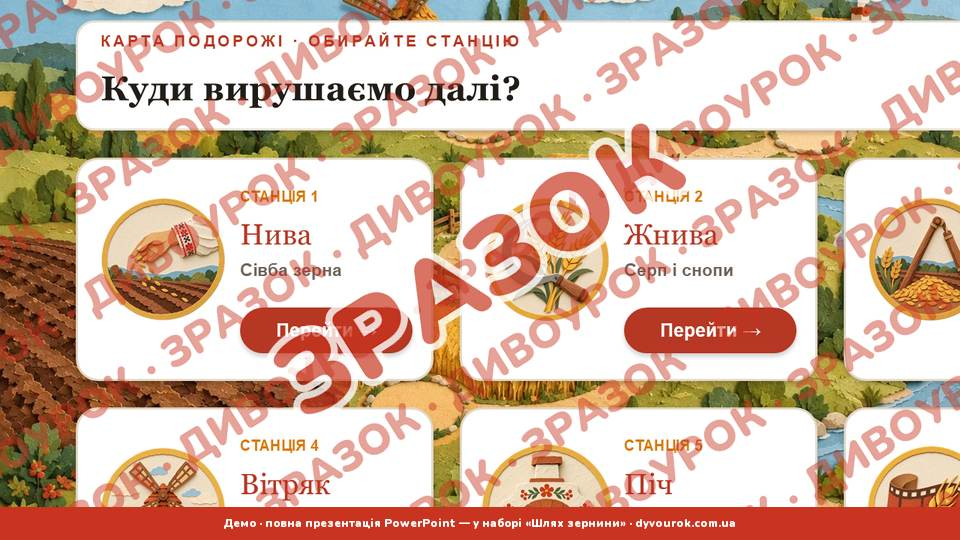
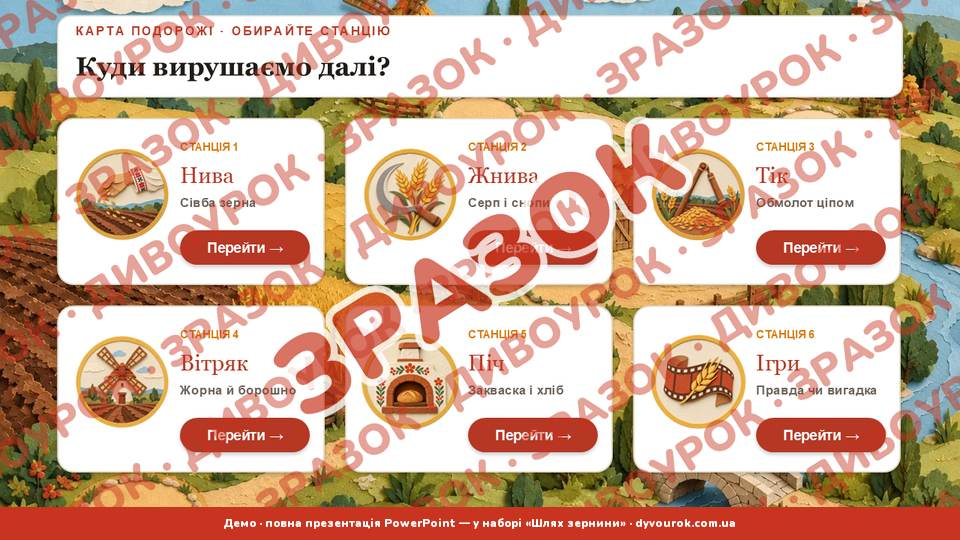
fix(khlib/pptx): set presentation layout to LAYOUT_WIDE so elements match widescreen slide canvas

diff --git a/public/packs/khlib/pack.js b/public/packs/khlib/pack.js
@@ -14,7 +14,7 @@
   date: '16 жовтня',
   base: 'packs/khlib/',
   cover: 'img/cover-card.jpg',
-  versions: {"media/c1.jpg": "f8fc8da178", "media/c1.mp4": "abd4440046", "media/c1.vtt": "d55c3039c4", "media/c2.jpg": "02c8a68ddb", "media/c2.mp4": "df881417da", "media/c2.vtt": "99db5f16aa", "media/c3.jpg": "dd7f03119e", "media/c3.mp4": "af7a4a8631", "media/c3.vtt": "2bdef21d86", "media/m3.jpg": "d4b6daff6a", "media/m3.mp4": "9398d8b778", "media/m3.vtt": "41a78e4a5a", "docs/banery.pdf": "da53f1a016", "docs/hramota.pdf": "ad4d55fa22", "docs/nalipky-zakladky.pdf": "5e8e645f74", "docs/plan.pdf": "4ec6273cd4", "docs/rozdatka-1-4.pdf": "7d9dffcae3", "docs/rozdatka-5-7.pdf": "6c6f7d1fe0", "docs/rozdatka-8-11.pdf": "388fbd0851", "img/cover-card.jpg": "7867b4e395", "img/pptx14-01.jpg": "e3f55c0ac3", "img/pptx14-02.jpg": "cad2dc3466", "img/pptx14-03.jpg": "03bb5b9994", "img/pptx14-04.jpg": "ac9a23fd23", "img/pptx14-05.jpg": "4e7d5cfdf1", "img/pptx14-06.jpg": "023c18cb3b", "img/pptx14-07.jpg": "4729a0edb5", "img/pptx14-08.jpg": "dc914d5397", "img/pptx14-09.jpg": "b2d0809b28", "img/pptx57-01.jpg": "6720d5dab4", "img/pptx57-02.jpg": "669429bb9c", "img/pptx57-03.jpg": "3ba44c0c07", "img/pptx57-04.jpg": "99971bd7cf", "img/pptx57-05.jpg": "046a02c98d", "img/pptx57-06.jpg": "f70dc2f325", "img/pptx57-07.jpg": "f9539a5b4f", "img/pptx57-08.jpg": "e2d7bdf188", "img/pptx811-01.jpg": "d751c0c64d", "img/pptx811-02.jpg": "80028b7a46", "img/pptx811-03.jpg": "c26e6d8da8", "img/pptx811-04.jpg": "81a9e6aa37", "img/pptx811-05.jpg": "2c6975160a", "img/pptx811-06.jpg": "5fd3ad4bc6", "img/pptx811-07.jpg": "c79cfc721b"},
+  versions: {"media/c1.jpg": "f8fc8da178", "media/c1.mp4": "abd4440046", "media/c1.vtt": "d55c3039c4", "media/c2.jpg": "02c8a68ddb", "media/c2.mp4": "df881417da", "media/c2.vtt": "99db5f16aa", "media/c3.jpg": "dd7f03119e", "media/c3.mp4": "af7a4a8631", "media/c3.vtt": "2bdef21d86", "media/m3.jpg": "d4b6daff6a", "media/m3.mp4": "9398d8b778", "media/m3.vtt": "41a78e4a5a", "docs/banery.pdf": "da53f1a016", "docs/hramota.pdf": "ad4d55fa22", "docs/nalipky-zakladky.pdf": "5e8e645f74", "docs/plan.pdf": "4ec6273cd4", "docs/rozdatka-1-4.pdf": "7d9dffcae3", "docs/rozdatka-5-7.pdf": "6c6f7d1fe0", "docs/rozdatka-8-11.pdf": "388fbd0851", "img/cover-card.jpg": "7867b4e395", "img/pptx14-01.jpg": "351d51efa3", "img/pptx14-02.jpg": "157313fff3", "img/pptx14-03.jpg": "445f34f2f3", "img/pptx14-04.jpg": "690374bbba", "img/pptx14-05.jpg": "c8088dab35", "img/pptx14-06.jpg": "ff9e970a68", "img/pptx14-07.jpg": "fbf9092a9b", "img/pptx14-08.jpg": "b009c4ebf7", "img/pptx14-09.jpg": "72dfcd706a", "img/pptx57-01.jpg": "c669d5b2fa", "img/pptx57-02.jpg": "c1b15cac38", "img/pptx57-03.jpg": "de6fc84c66", "img/pptx57-04.jpg": "a29aac11eb", "img/pptx57-05.jpg": "b3ed3cb489", "img/pptx57-06.jpg": "7853bc84e5", "img/pptx57-07.jpg": "531ccd5af0", "img/pptx57-08.jpg": "37b0aa21ea", "img/pptx811-01.jpg": "8d225ba9c9", "img/pptx811-02.jpg": "04e3736287", "img/pptx811-03.jpg": "648bdebde0", "img/pptx811-04.jpg": "5c3cd3f413", "img/pptx811-05.jpg": "870e1b4990", "img/pptx811-06.jpg": "bf5a49140a", "img/pptx811-07.jpg": "906bf85ac2"},
   subs: {"media/c1.mp4":[[3.4,13.21,"Мур… Знайомтеся: це дід Остап. Сто років тому хліб вирощували отак, руками. Підгляньмо!"],[13.56,24.72,"Весна, рілля готова. Зерно — у коробці на мотузці. Крок — жменя — і широко розкидаю, рівненько."],[25.07,28.57,"А чого не висипати все однією купкою? Швидше ж!"],[28.92,35.76,"Купкою зійде густо, а поруч голо. Кожному колоску треба своє місце."],[36.11,39.84,"Минуло літо. Нива стала золотою."],[40.2,46.98,"Жнемо серпом. Лівою рукою беру жменю стебел, правою — серп до себе."],[47.34,54.62,"Жменя до жмені — і вже сніп. В'яжу його перевеслом — джгутом із тієї ж соломи."],[54.97,59.42,"Мотузка… із соломи?! Оце так!"],[59.77,67.0,"Снопи ставимо в поле гуртом — хай досихають. А потім везу на тік, біля клуні."],[67.35,76.66,"Ось ціп. Довга палиця — ціпилно, коротка — бияк. А між ними шкіряна петля, тому бияк літає."],[77.01,84.45,"Снопи розстеляю на току. Замах — і бияк б'є по колоссю. Зерно вискакує з колосків!"],[84.8,87.47,"А полова? Вона ж змішалася з зерном!"],[87.82,95.67,"А тепер — лопатою вгору, на вітер. Важке зерно падає, а легка полова летить геть."],[96.02,100.71,"Мур-р. Зерно чисте. Тепер — до мельника!"]],"hq/c1.mp4":[[3.4,13.21,"Мур… Знайомтеся: це дід Остап. Сто років тому хліб вирощували отак, руками. Підгляньмо!"],[13.56,24.72,"Весна, рілля готова. Зерно — у коробці на мотузці. Крок — жменя — і широко розкидаю, рівненько."],[25.07,28.57,"А чого не висипати все однією купкою? Швидше ж!"],[28.92,35.76,"Купкою зійде густо, а поруч голо. Кожному колоску треба своє місце."],[36.11,39.84,"Минуло літо. Нива стала золотою."],[40.2,46.98,"Жнемо серпом. Лівою рукою беру жменю стебел, правою — серп до себе."],[47.34,54.62,"Жменя до жмені — і вже сніп. В'яжу його перевеслом — джгутом із тієї ж соломи."],[54.97,59.42,"Мотузка… із соломи?! Оце так!"],[59.77,67.0,"Снопи ставимо в поле гуртом — хай досихають. А потім везу на тік, біля клуні."],[67.35,76.66,"Ось ціп. Довга палиця — ціпилно, коротка — бияк. А між ними шкіряна петля, тому бияк літає."],[77.01,84.45,"Снопи розстеляю на току. Замах — і бияк б'є по колоссю. Зерно вискакує з колосків!"],[84.8,87.47,"А полова? Вона ж змішалася з зерном!"],[87.82,95.67,"А тепер — лопатою вгору, на вітер. Важке зерно падає, а легка полова летить геть."],[96.02,100.71,"Мур-р. Зерно чисте. Тепер — до мельника!"]],"media/c2.mp4":[[3.4,9.66,"А це вітряк. Його господар — мельник Гнат. Зазирнімо всередину!"],[10.01,16.52,"Заходьте! Внизу тримаю мішки — і з зерном, і з борошном. А мелемо нагорі."],[16.87,24.45,"Спершу крила треба поставити проти вітру. Беру водило — довгу жердину — і повертаю весь вітряк."],[24.8,27.95,"Увесь вітряк?! Отак руками?"],[28.3,35.19,"Атож. Він стоїть на одному товстому стовпі, як на нозі. Тож і повертається."],[35.54,42.55,"Вітер крутить крила. Крила крутять вал. А на валу — велике колесо з дерев'яними зубцями."],[42.9,50.13,"Зубці чіпляють менше колесо — цівку. Цівка крутить веретено, а веретено — верхнє жорно."],[50.48,56.51,"Жорен двоє. Нижнє лежить нерухомо, а верхнє крутиться над ним."],[56.86,63.58,"Зерно сиплю в кіш. Коник трусить — і зерно по зернятку біжить у дірку верхнього жорна."],[63.93,66.34,"І там його — хрусь-хрусь?"],[66.69,72.81,"Між каменями зерно стирається на борошно. А борошно — по жолобу, просто в мішок."],[73.16,80.72,"Хочете дрібніше — опускаю верхнє жорно. Грубіше — піднімаю. А як вітер аж реве — гальмую."],[81.07,85.48,"Мур… Отак вітер стає борошном."]],"hq/c2.mp4":[[3.4,9.66,"А це вітряк. Його господар — мельник Гнат. Зазирнімо всередину!"],[10.01,16.52,"Заходьте! Внизу тримаю мішки — і з зерном, і з борошном. А мелемо нагорі."],[16.87,24.45,"Спершу крила треба поставити проти вітру. Беру водило — довгу жердину — і повертаю весь вітряк."],[24.8,27.95,"Увесь вітряк?! Отак руками?"],[28.3,35.19,"Атож. Він стоїть на одному товстому стовпі, як на нозі. Тож і повертається."],[35.54,42.55,"Вітер крутить крила. Крила крутять вал. А на валу — велике колесо з дерев'яними зубцями."],[42.9,50.13,"Зубці чіпляють менше колесо — цівку. Цівка крутить веретено, а веретено — верхнє жорно."],[50.48,56.51,"Жорен двоє. Нижнє лежить нерухомо, а верхнє крутиться над ним."],[56.86,63.58,"Зерно сиплю в кіш. Коник трусить — і зерно по зернятку біжить у дірку верхнього жорна."],[63.93,66.34,"І там його — хрусь-хрусь?"],[66.69,72.81,"Між каменями зерно стирається на борошно. А борошно — по жолобу, просто в мішок."],[73.16,80.72,"Хочете дрібніше — опускаю верхнє жорно. Грубіше — піднімаю. А як вітер аж реве — гальмую."],[81.07,85.48,"Мур… Отак вітер стає борошном."]],"media/c3.mp4":[[3.4,10.33,"Ох, як пахне… Це бабуся Ганна. Сьогодні в неї хлібний день."],[10.68,16.38,"Хліб печу раз на тиждень — одразу кілька хлібин, на всю родину."],[16.73,24.24,"У діжі з минулого разу лишився шматочок кислого тіста. Це закваска — з неї все й починається."],[24.59,34.01,"Додаю борошно, теплу воду, дрібку солі — і мішу кулаками. Довго, поки тісто не відстане від рук."],[34.36,36.63,"А навіщо так довго місити?"],[36.98,44.26,"Щоб хліб був пишний, легкий. А тепер — під рушник, у тепло. Хай тісто підходить."],[44.61,51.27,"Тим часом топлю піч. Дубові й березові дрова: жару багато, диму мало."],[51.62,55.3,"Дрова прогоріли — вигортаю жар коцюбою вбік."],[55.66,61.33,"На лопату — капустяний листок, на листок — хлібину. І в піч!"],[61.68,65.06,"А як дізнатися, що хліб спікся? Підглянути?"],[65.41,73.12,"Виймаю й стукаю по скоринці. Дзвенить — готовий. Глухо — ще глевкий, хай допікається."],[73.47,78.01,"Гарячий хліб накриваю рушником — скоринка стане м'якою."],[78.36,84.15,"А як упаде шматочок — бабуся підніме й поцілує. Тут хліб шанують."],[84.5,88.17,"Тепер і я шануватиму. Ні крихти не розсиплю!"]],"hq/c3.mp4":[[3.4,10.33,"Ох, як пахне… Це бабуся Ганна. Сьогодні в неї хлібний день."],[10.68,16.38,"Хліб печу раз на тиждень — одразу кілька хлібин, на всю родину."],[16.73,24.24,"У діжі з минулого разу лишився шматочок кислого тіста. Це закваска — з неї все й починається."],[24.59,34.01,"Додаю борошно, теплу воду, дрібку солі — і мішу кулаками. Довго, поки тісто не відстане від рук."],[34.36,36.63,"А навіщо так довго місити?"],[36.98,44.26,"Щоб хліб був пишний, легкий. А тепер — під рушник, у тепло. Хай тісто підходить."],[44.61,51.27,"Тим часом топлю піч. Дубові й березові дрова: жару багато, диму мало."],[51.62,55.3,"Дрова прогоріли — вигортаю жар коцюбою вбік."],[55.66,61.33,"На лопату — капустяний листок, на листок — хлібину. І в піч!"],[61.68,65.06,"А як дізнатися, що хліб спікся? Підглянути?"],[65.41,73.12,"Виймаю й стукаю по скоринці. Дзвенить — готовий. Глухо — ще глевкий, хай допікається."],[73.47,78.01,"Гарячий хліб накриваю рушником — скоринка стане м'якою."],[78.36,84.15,"А як упаде шматочок — бабуся підніме й поцілує. Тут хліб шанують."],[84.5,88.17,"Тепер і я шануватиму. Ні крихти не розсиплю!"]],"media/m3.mp4":[[3.4,9.57,"Чули-чули?! День хліба святкують у всьому світі! Але чому саме шістнадцятого жовтня?"],[9.92,20.12,"Бо шістнадцятого жовтня тисяча дев'ятсот сорок п'ятого року заснували Продовольчу організацію ООН — ФАО."],[20.47,24.13,"Того ж дня відзначають і Всесвітній день продовольства."],[24.48,26.4,"А що ця ФАО робить?"],[26.75,35.15,"Дбає, щоб людям у світі вистачало їжі. Її девіз латиною — «Фіат паніс». «Хай буде хліб»."],[35.5,37.75,"Хай буде хліб… Гарно!"],[38.1,50.07,"А з двадцять другого року діє ініціатива «Зерно з України»: українське зерно разом зі Світовою продовольчою програмою ООН отримують країни, де бракує їжі."],[50.42,54.37,"Виходить, хліб — це не лише їжа, а й допомога?"],[54.72,60.27,"І праця, і пам'ять, і турбота. Тому хліб — усьому голова."]],"hq/m3.mp4":[[3.4,9.57,"Чули-чули?! День хліба святкують у всьому світі! Але чому саме шістнадцятого жовтня?"],[9.92,20.12,"Бо шістнадцятого жовтня тисяча дев'ятсот сорок п'ятого року заснували Продовольчу організацію ООН — ФАО."],[20.47,24.13,"Того ж дня відзначають і Всесвітній день продовольства."],[24.48,26.4,"А що ця ФАО робить?"],[26.75,35.15,"Дбає, щоб людям у світі вистачало їжі. Її девіз латиною — «Фіат паніс». «Хай буде хліб»."],[35.5,37.75,"Хай буде хліб… Гарно!"],[38.1,50.07,"А з двадцять другого року діє ініціатива «Зерно з України»: українське зерно разом зі Світовою продовольчою програмою ООН отримують країни, де бракує їжі."],[50.42,54.37,"Виходить, хліб — це не лише їжа, а й допомога?"],[54.72,60.27,"І праця, і пам'ять, і турбота. Тому хліб — усьому голова."]]},
   stops: [],
 

diff --git a/public/sw.js b/public/sw.js
@@ -1,5 +1,5 @@
 /* Робота без інтернету: після першого відкриття все потрібне лежить у кеші. Нову версію — через зміну VERSION. */
-const VERSION = 'dyvourok-v27';
+const VERSION = 'dyvourok-v28';
 // Мультфільми, PDF і картинки набору, які вчитель зберіг кнопкою «Робота без інтернету» (див. saveOffline в app.js).
 // Окремий кеш: не стирається з новою VERSION, адреси мають ?v=, тож застарілих файлів не віддасть.
 const MEDIA = 'dyvourok-media';

diff --git a/public/app/index.html b/public/app/index.html
@@ -18,7 +18,7 @@
 </head>
 <body>
 <div id="app"></div>
-<script src="packs/khlib/pack.js?v=3666161fce"></script>
+<script src="packs/khlib/pack.js?v=c49f9613d5"></script>
 <script src="packs/mova/pack.js?v=7eebb20074"></script>
 <script src="js/star.js?v=b7e06e2615"></script>
 <script src="js/sfx.js?v=37eb85b0f8"></script>
